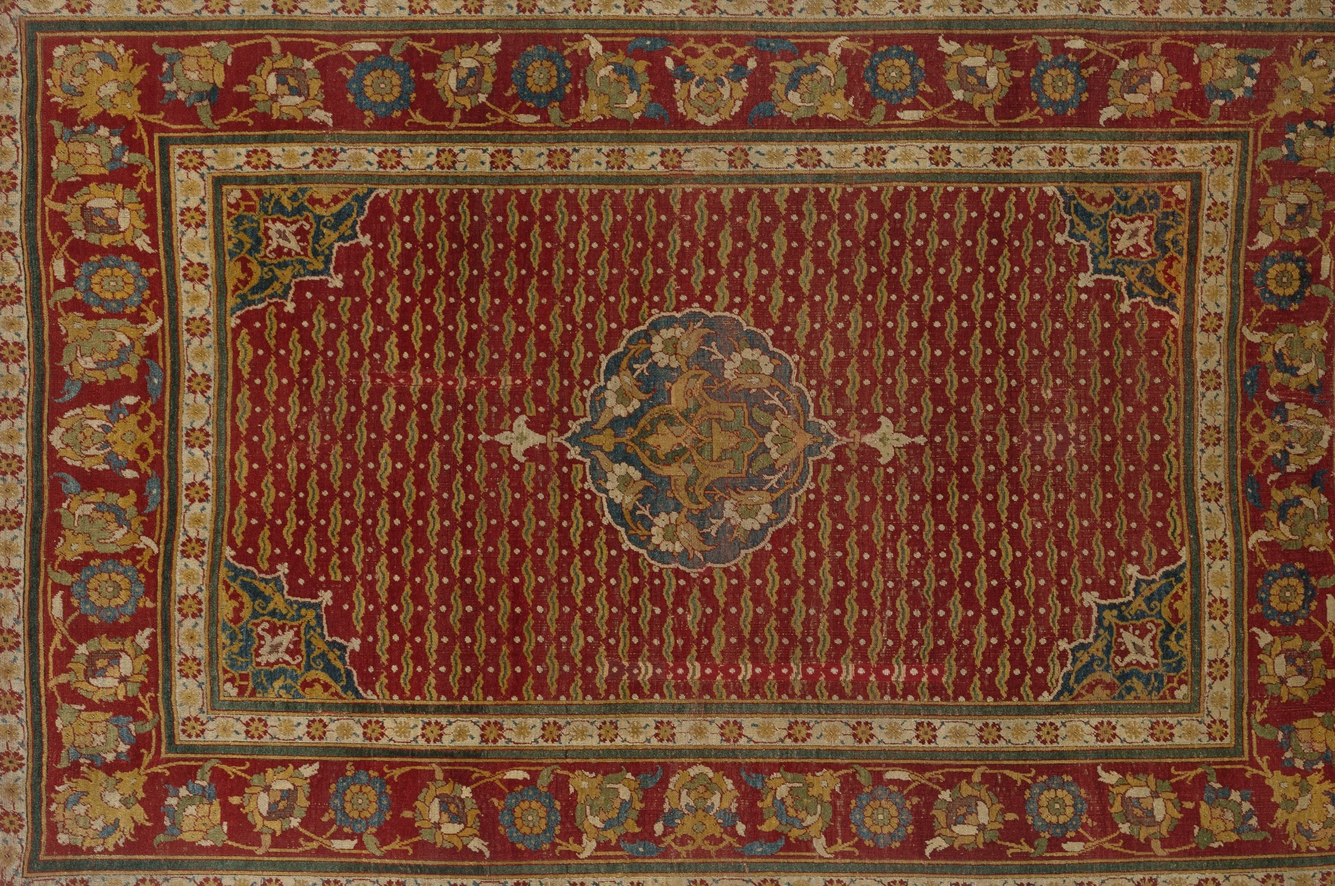
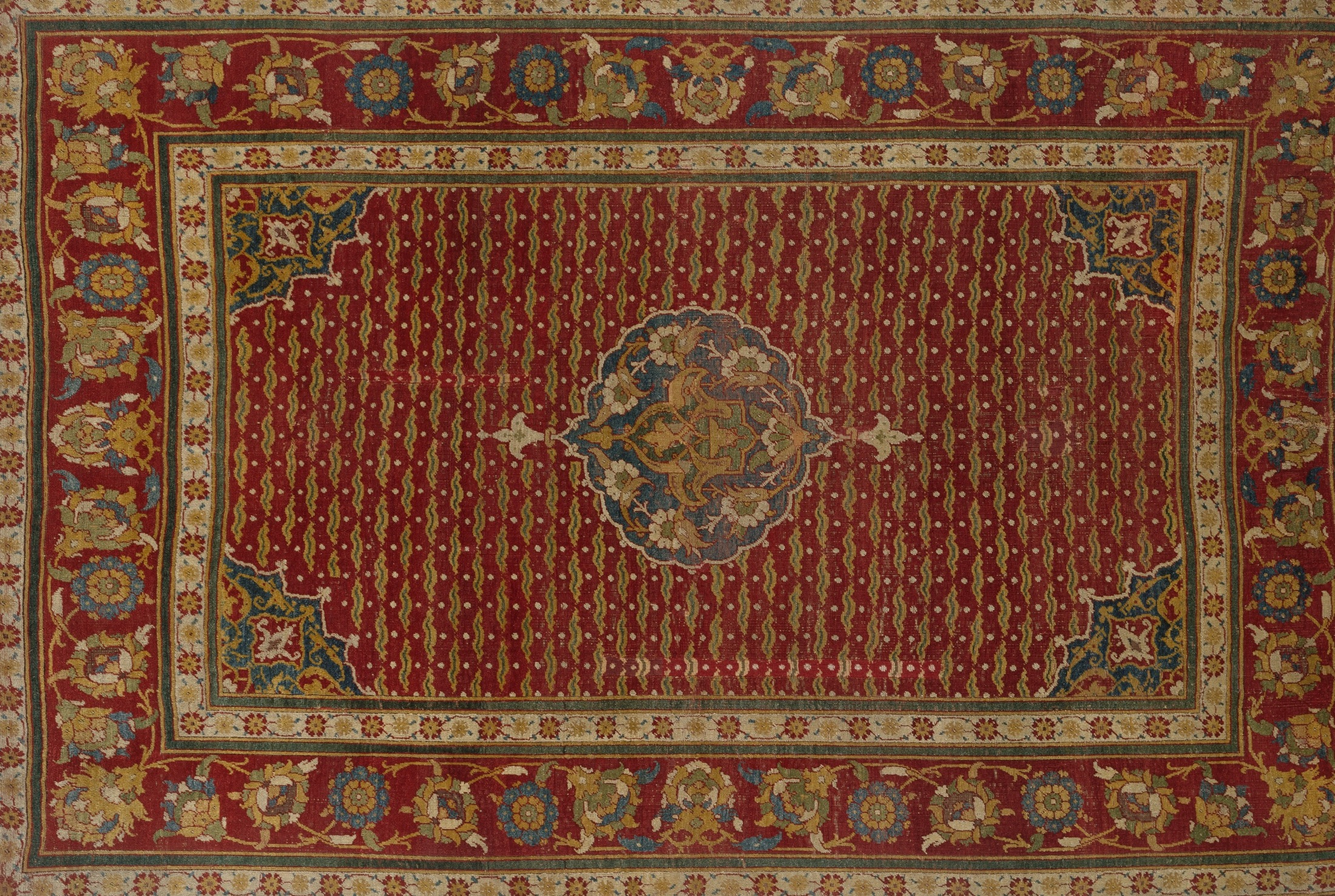
Whole, rectangular rugs: fix the re-crop and drop the near-square one
The 80% rule measured each row against the whole photo, but the rug
fills only part of it, so worn rows near the ends fell short and were
cut off. Detection now finds the rough box first, then applies the 80%
rule against the rug's own width and height, so every crop is the full
rug with all four borders and no fringe or backdrop.

Star Medallions is really about 1.2:1, too close to square to read as
a rug here, so it gives way to a 16th-century Persian medallion carpet
(Met 446954, 1.44:1). All eight designs now run 1.36 to 1.57.

diff --git a/scripts/crop-rug.swift b/scripts/crop-rug.swift
@@ -13,12 +13,21 @@ func p(_ x: Int, _ y: Int) -> (Double, Double, Double) { let i = (y * dw + x) * 
 var bg = [(Double, Double, Double)]()
 for (cx, cy) in [(0, 0), (dw - 6, 0), (0, dh - 6), (dw - 6, dh - 6)] { for y in cy..<cy+6 { for x in cx..<cx+6 { bg.append(p(x, y)) } } }
 func far(_ c: (Double, Double, Double)) -> Bool { bg.allSatisfy { b in abs(c.0-b.0) + abs(c.1-b.1) + abs(c.2-b.2) > 60 } }
-var colHit = [Int](repeating: 0, count: dw), rowHit = [Int](repeating: 0, count: dh)
-for y in 0..<dh { for x in 0..<dw where far(p(x, y)) { colHit[x] += 1; rowHit[y] += 1 } }
-// 80%: a row of fringe strands has backdrop showing between them, so it falls short and is left out
-// (Underrug draws its own fringe)
-let cols = colHit.indices.filter { Double(colHit[$0]) > Double(dh) * 0.8 }, rows = rowHit.indices.filter { Double(rowHit[$0]) > Double(dw) * 0.8 }
-guard let x0 = cols.first, let x1 = cols.last, let y0 = rows.first, let y1 = rows.last else { fatalError("no rug found") }
+/// Rows and columns where at least `share` of the span between lo and hi isn't backdrop.
+func span(_ lo: (Int, Int), _ hi: (Int, Int), _ share: Double) -> (x: ClosedRange<Int>, y: ClosedRange<Int>)? {
+    var colHit = [Int](repeating: 0, count: dw), rowHit = [Int](repeating: 0, count: dh)
+    for y in lo.1...hi.1 { for x in lo.0...hi.0 where far(p(x, y)) { colHit[x] += 1; rowHit[y] += 1 } }
+    let h = Double(hi.1 - lo.1 + 1), w = Double(hi.0 - lo.0 + 1)
+    let cols = colHit.indices.filter { Double(colHit[$0]) > h * share }, rows = rowHit.indices.filter { Double(rowHit[$0]) > w * share }
+    guard let x0 = cols.first, let x1 = cols.last, let y0 = rows.first, let y1 = rows.last else { return nil }
+    return (x0...x1, y0...y1)
+}
+// First the rough box, measured against the whole photo. Then again against the rug's own width and
+// height: 80% of the rug, so a worn row still counts but a row of fringe strands, with backdrop
+// showing between them, does not (Underrug draws its own fringe).
+guard let rough = span((0, 0), (dw - 1, dh - 1), 0.5),
+      let fine = span((rough.x.lowerBound, rough.y.lowerBound), (rough.x.upperBound, rough.y.upperBound), 0.8) else { fatalError("no rug found") }
+let x0 = fine.x.lowerBound, x1 = fine.x.upperBound, y0 = fine.y.lowerBound, y1 = fine.y.upperBound
 let s = Double(src.width) / Double(dw)
 // trim a hair more so no background sliver survives
 let inset = 0.012
@@ -39,4 +48,4 @@ if rotate { octx.translateBy(x: CGFloat(W), y: 0); octx.rotate(by: .pi / 2); oct
 else { octx.draw(cut, in: CGRect(x: 0, y: 0, width: W, height: H)) }
 let rep = NSBitmapImageRep(cgImage: octx.makeImage()!)
 try! rep.representation(using: .jpeg, properties: [.compressionFactor: 0.78])!.write(to: URL(fileURLWithPath: a[2]))
-print(a[2], W, "x", H, "from", Int(r.width), "x", Int(r.height))
+print(a[2], W, "x", H, "aspect", String(format: "%.2f", Double(W) / Double(H)))

diff --git a/Sources/Patterns.swift b/Sources/Patterns.swift
@@ -4,12 +4,12 @@ import AppKit
 /// (Open Access, CC0). Each photo is cropped to the woven field and turned landscape, so the warp
 /// ends, where the fringe goes, are on the left and right. Sources are in CREDITS.md.
 enum Pattern: String, CaseIterable {
-    case anatolianRed, starMedallions, cairoMedallion, chineseGold, cairoGarden, anatolianGold, ivoryField, prayerRug, custom
+    case anatolianRed, persianMedallion, cairoMedallion, chineseGold, cairoGarden, anatolianGold, ivoryField, prayerRug, custom
 
     var title: String {
         switch self {
         case .anatolianRed: return "Anatolian Red"
-        case .starMedallions: return "Star Medallions"
+        case .persianMedallion: return "Persian Medallion"
         case .cairoMedallion: return "Cairo Medallion"
         case .chineseGold: return "Chinese Gold"
         case .cairoGarden: return "Cairo Garden"
@@ -24,7 +24,7 @@ enum Pattern: String, CaseIterable {
     var origin: String {
         switch self {
         case .anatolianRed: return "Turkey, 18th century"
-        case .starMedallions: return "Turkey, late 18th–early 19th century"
+        case .persianMedallion: return "Iran, second half 16th century"
         case .cairoMedallion: return "Egypt, ca. 1550"
         case .chineseGold: return "China, late 18th–19th century"
         case .cairoGarden: return "Egypt, 17th century"
@@ -39,7 +39,7 @@ enum Pattern: String, CaseIterable {
     var metID: Int? {
         switch self {
         case .anatolianRed: return 452567
-        case .starMedallions: return 452581
+        case .persianMedallion: return 446954
         case .cairoMedallion: return 452309
         case .chineseGold: return 42748
         case .cairoGarden: return 446957

diff --git a/CREDITS.md b/CREDITS.md
@@ -7,7 +7,7 @@ public domain (CC0). They were cropped to the woven field, turned landscape and 
 | Design | Object | Origin | Met |
 |---|---|---|---|
 | Anatolian Red | Carpet | Turkey, 18th century | [452567](https://www.metmuseum.org/art/collection/search/452567) |
-| Star Medallions | Carpet | Turkey, late 18th–early 19th century | [452581](https://www.metmuseum.org/art/collection/search/452581) |
+| Persian Medallion | Carpet | Iran, second half 16th century | [446954](https://www.metmuseum.org/art/collection/search/446954) |
 | Cairo Medallion | Carpet | Egypt, ca. 1550 | [452309](https://www.metmuseum.org/art/collection/search/452309) |
 | Chinese Gold | Carpet | China, late 18th–19th century | [42748](https://www.metmuseum.org/art/collection/search/42748) |
 | Cairo Garden | Carpet | Egypt, 17th century | [446957](https://www.metmuseum.org/art/collection/search/446957) |
